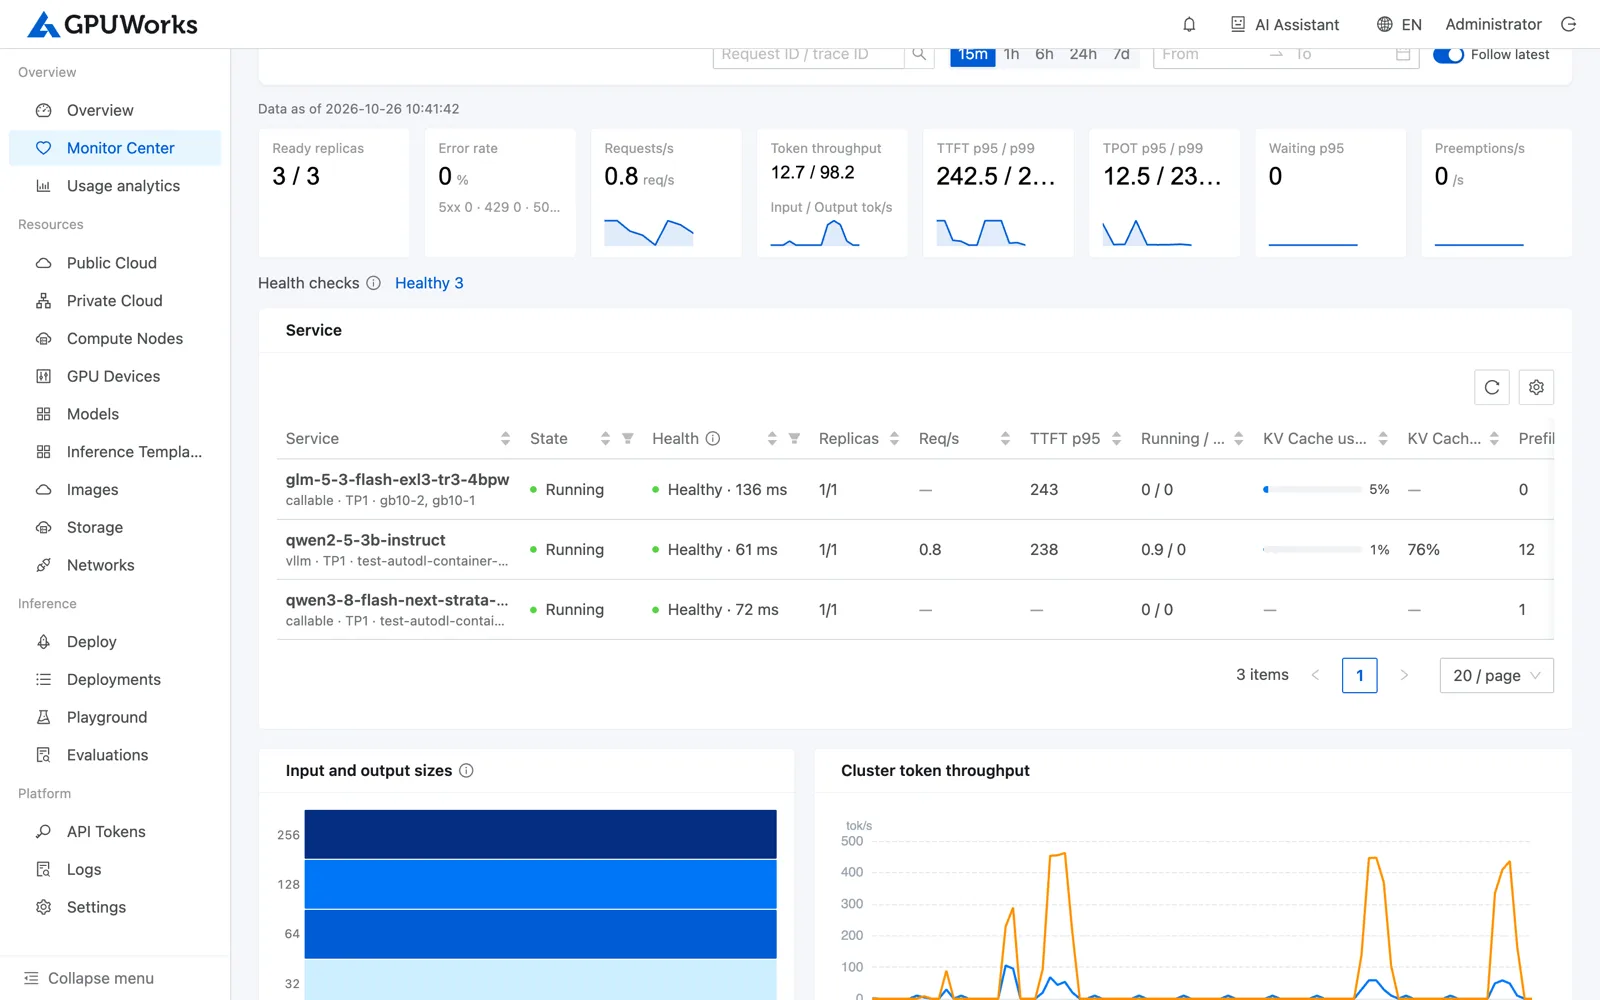
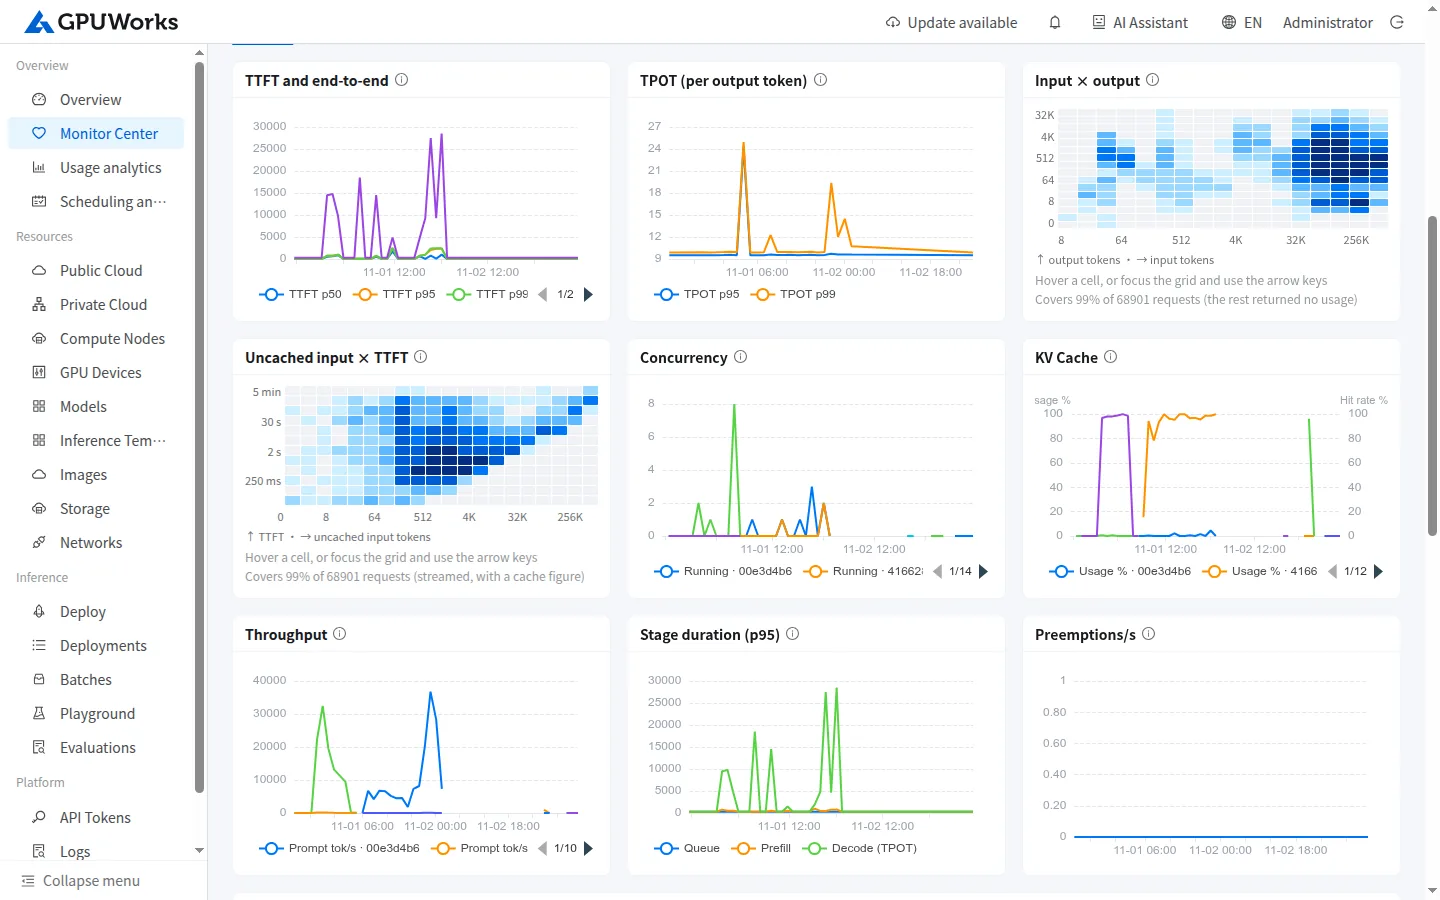
docs: refresh README tour GIF and screenshots with real data
Replace the opening tour with ten frames taken from real environments:
the 1,003-machine Alibaba Cloud drill (overview, monitor, scheduling
heatmap, logs), the H20 production cluster (7-day DeepSeek monitoring,
weekly token usage, GPU hand-offs, per-card health checks with the AI
assistant) and the Ascend 910C cluster (PD disaggregation, HCCS card
matrix). No loading spinners; each frame carries a caption.

The screenshot grid gains overview, scheduling, usage, PD, health and
network shots; the GPU list and deployment detail shots are dropped.

diff --git a/README.zh-CN.md b/README.zh-CN.md
@@ -20,7 +20,7 @@
 </p>
 
 <p align="center">
-  <img src="docs/assets/screenshots/readme/tour.zh.gif" alt="GPUWorks 演示：总览、GPU、部署向导、Playground" width="900">
+  <img src="docs/assets/screenshots/readme/tour.zh.gif" alt="GPUWorks 演示：阿里云 1003 台机器实测、生产监控、用量分析、调度分析、PD 分离、网络测试、GPU 健康检查与 AI 助手、日志" width="900">
 </p>
 
 GPUWorks 是一个超轻量的 GPU 管理和模型即服务（MaaS）平台，整个控制面连同 Web 界面下载只有 40 MB 左右。一条命令接入自有 GPU 服务器、
@@ -134,9 +134,11 @@ GPU 通过厂商命令行工具探测（`nvidia-smi`、`npu-smi`、`ppu-smi`、`
 
 | | |
 |---|---|
-| ![GPU](docs/assets/screenshots/readme/gpus.zh.webp) **GPU**：跨节点、跨厂商 | ![推理模板](docs/assets/screenshots/readme/templates.zh.webp) **模型目录**：按厂商与引擎给出启动规格 |
-| ![部署详情](docs/assets/screenshots/readme/deployment-detail.zh.webp) **部署**：副本、状态与指标 | ![Playground](docs/assets/screenshots/readme/playground.zh.webp) **Playground** 直接对话任意部署 |
-| ![监控](docs/assets/screenshots/readme/monitor.zh.webp) **监控**：GPU、引擎与网关指标 | ![压测](docs/assets/screenshots/readme/benchmark.zh.webp) **压测报告**：吞吐、TTFT、延迟 |
+| ![概览](docs/assets/screenshots/readme/overview.zh.webp) **概览**：NVIDIA、PPU、昇腾、海光混合的生产集群 | ![调度分析](docs/assets/screenshots/readme/scheduling.zh.webp) **调度分析**：多个模型轮流共用 GPU，逐卡可查 |
+| ![监控](docs/assets/screenshots/readme/monitor.zh.webp) **监控**（生产环境 7 天）：延迟、请求分布、并发与 KV Cache | ![用量分析](docs/assets/screenshots/readme/usage.zh.webp) **用量分析**：按小时、API 令牌与模型统计 token |
+| ![PD 分离](docs/assets/screenshots/readme/pd.zh.webp) **PD 分离**（昇腾 910C）：KV 交接、延迟拆解、在途请求 | ![健康检查](docs/assets/screenshots/readme/health-ai.zh.webp) **GPU 健康检查**，AI 助手给出诊断 |
+| ![网络测试](docs/assets/screenshots/readme/network.zh.webp) **网络测试**：HCCS 全卡互通矩阵 | ![压测](docs/assets/screenshots/readme/benchmark.zh.webp) **压测报告**：吞吐、TTFT、延迟 |
+| ![推理模板](docs/assets/screenshots/readme/templates.zh.webp) **模型目录**：按厂商与引擎给出启动规格 | ![Playground](docs/assets/screenshots/readme/playground.zh.webp) **Playground** 直接对话任意部署 |
 
 ## 架构
 

diff --git a/README.md b/README.md
@@ -20,7 +20,7 @@
 </p>
 
 <p align="center">
-  <img src="docs/assets/screenshots/readme/tour.gif" alt="GPUWorks tour: overview, GPUs, deployment wizard, Playground" width="900">
+  <img src="docs/assets/screenshots/readme/tour.gif" alt="GPUWorks tour: a 1,003-machine Alibaba Cloud drill, production monitoring, usage analytics, scheduling, PD disaggregation, network tests, GPU health checks with the AI assistant, logs" width="900">
 </p>
 
 GPUWorks is an ultra-lightweight GPU management and Model-as-a-Service (MaaS) platform. The whole control plane, web
@@ -156,9 +156,11 @@ HTTP file server and deployed with your own arguments.
 
 | | |
 |---|---|
-| ![GPUs](docs/assets/screenshots/readme/gpus.webp) **GPUs** across nodes and vendors | ![Templates](docs/assets/screenshots/readme/templates.webp) **Model catalog** with launch specs per vendor and engine |
-| ![Deployment](docs/assets/screenshots/readme/deployment-detail.webp) **Deployment** replicas, status and metrics | ![Playground](docs/assets/screenshots/readme/playground.webp) **Playground** against any deployment |
-| ![Monitor](docs/assets/screenshots/readme/monitor.webp) **Monitoring**: GPU, engine and gateway metrics | ![Benchmark](docs/assets/screenshots/readme/benchmark.webp) **Benchmark** report: throughput, TTFT, latency |
+| ![Overview](docs/assets/screenshots/readme/overview.webp) **Overview** of a production cluster with NVIDIA, PPU, Ascend and Hygon GPUs | ![Scheduling](docs/assets/screenshots/readme/scheduling.webp) **Scheduling analysis**: models taking turns on the same GPUs, card by card |
+| ![Monitor](docs/assets/screenshots/readme/monitor.webp) **Monitoring** in production: latency, request shapes, concurrency and KV cache over 7 days | ![Usage](docs/assets/screenshots/readme/usage.webp) **Usage analytics**: tokens by hour, API key and model |
+| ![PD](docs/assets/screenshots/readme/pd.webp) **PD disaggregation** on Ascend 910C: KV hand-off, latency breakdown, requests in flight | ![Health](docs/assets/screenshots/readme/health-ai.webp) **GPU health checks**, diagnosed by the AI assistant |
+| ![Network](docs/assets/screenshots/readme/network.webp) **Network test**: HCCS card-to-card reachability matrix | ![Benchmark](docs/assets/screenshots/readme/benchmark.webp) **Benchmark** report: throughput, TTFT, latency |
+| ![Templates](docs/assets/screenshots/readme/templates.webp) **Model catalog** with launch specs per vendor and engine | ![Playground](docs/assets/screenshots/readme/playground.webp) **Playground** against any deployment |
 
 ## Architecture
 
